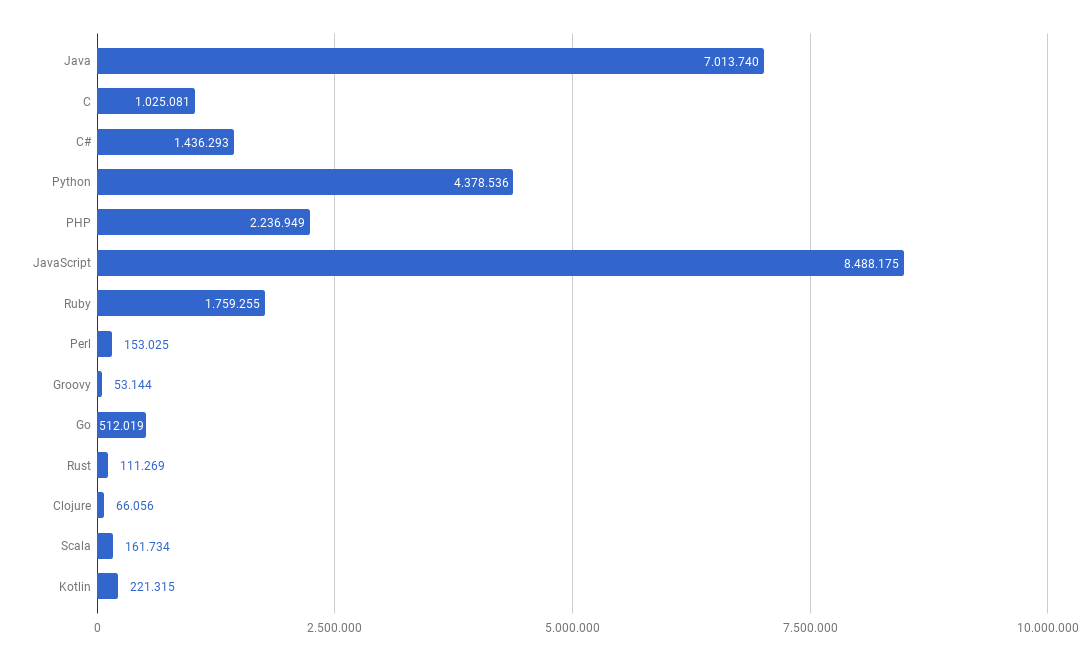
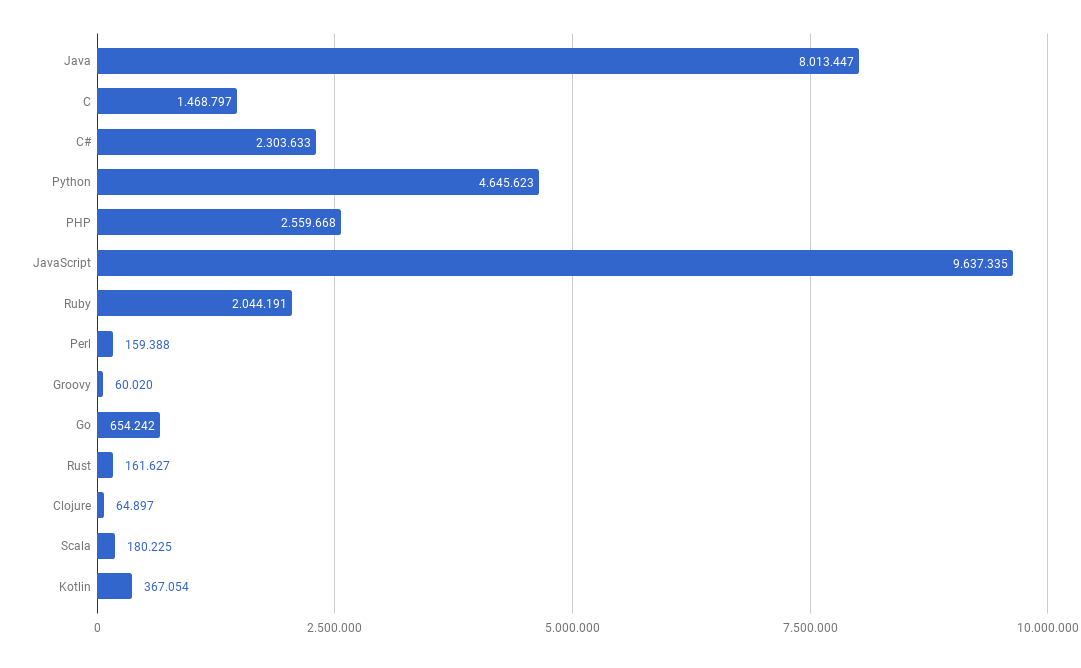
github repos updated

diff --git a/index.html b/index.html
@@ -279,7 +279,7 @@
 				<div class="slide-content">
 					<img src="img/github_repos_since_2010.png" alt="# repos created on Github since 2010" class="img_full full_height" />
 					<div class="source">
-						<p>Source: <a href="https://github.com/oprogramador/github-languages">github.com/oprogramador/github-languages</a> (Oct 2019)</p>
+						<p>Source: <a href="https://github.com/oprogramador/github-languages">github.com/oprogramador/github-languages</a> (Aug 2020)</p>
 					</div>
 				</div>
 			</section>
